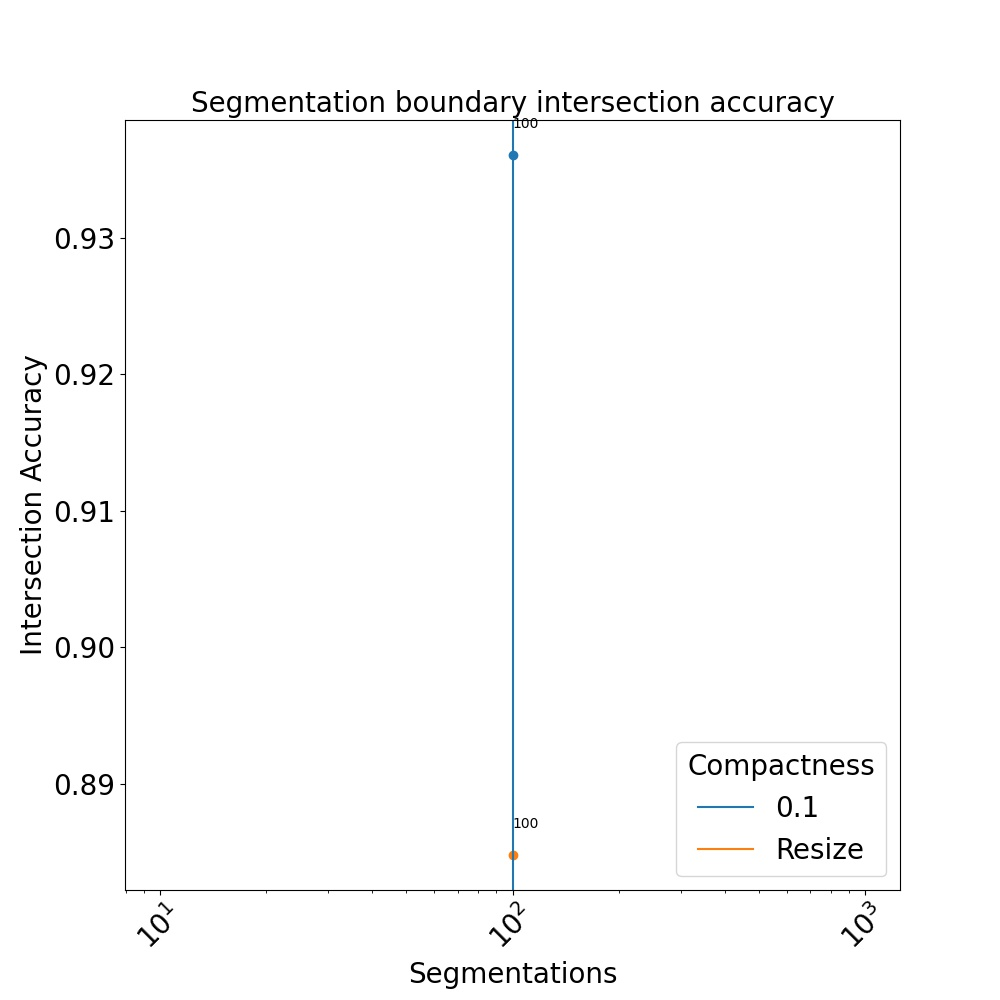
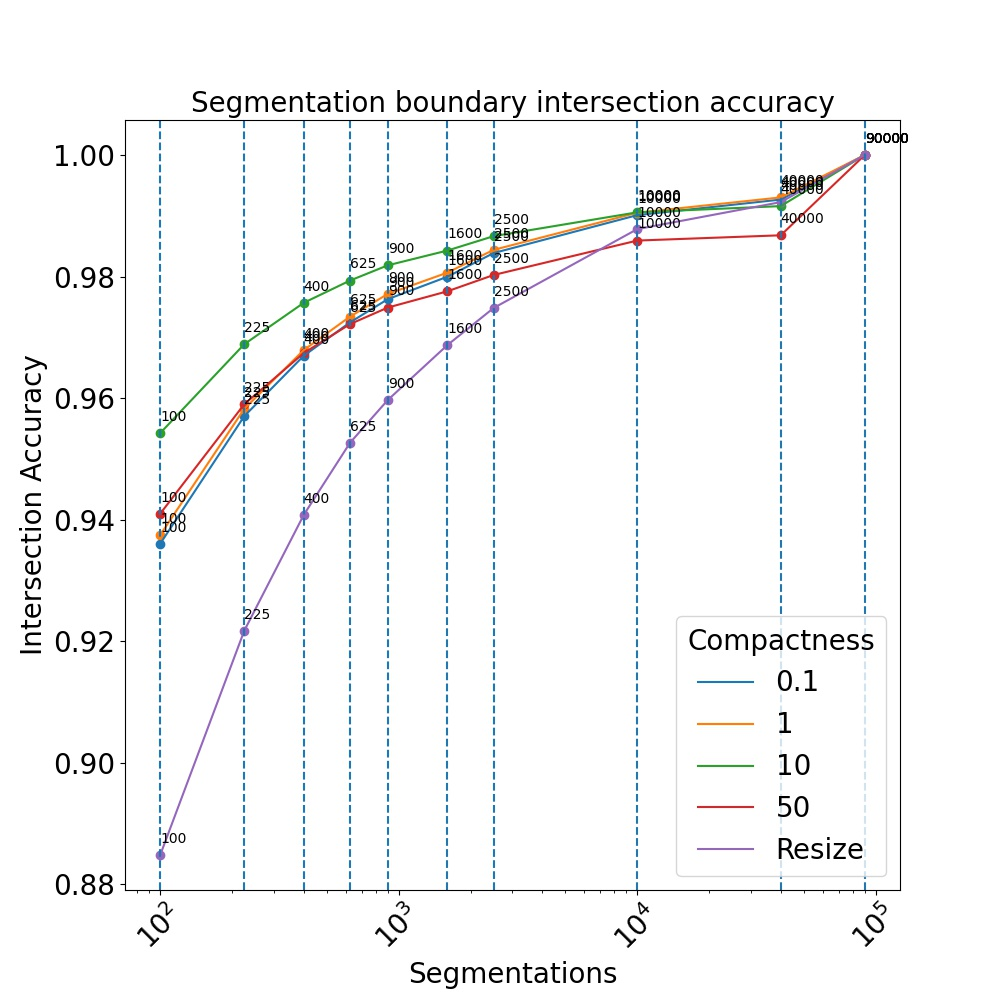
Add tag, dropout

diff --git a/Analysis/superpixel_boundary.py b/Analysis/superpixel_boundary.py
@@ -17,63 +17,124 @@ compactness = [0.1, 1, 10, 50]
 d= {}
 d['segment_numbers'] = segment_numbers
 num_images = 3000
+use_pickle = True
+
+
 plt.figure(figsize=(10,10))
-for compact in tqdm(compactness):
+if use_pickle:
+    d = open("segments_plot_data.pkl",'rb')
+    d = pickle.load(d)
+    for compact in tqdm(compactness):
+        all_ious = d[compact] 
+        plt.plot(np.power(np.array(segment_numbers), 2), all_ious, label=f'{compact}')
+        plt.scatter(np.power(np.array(segment_numbers), 2), all_ious)
+        for i, j in zip(np.power(np.array(segment_numbers), 2), all_ious):
+            plt.text(i, j+0.002, '{}'.format(i))
+
+    all_ious = d['ious'] 
+    plt.plot(np.power(np.array(segment_numbers), 2), all_ious, label='Resize')
+    plt.scatter(np.power(np.array(segment_numbers), 2), all_ious)
+    for i, j in zip(np.power(np.array(segment_numbers), 2), all_ious):
+        plt.text(i, j+0.002, '{}'.format(i))
+
+else:
+    for compact in tqdm(compactness):
+        all_ious = []
+        for seg in segment_numbers:
+            IoUs = []
+            for file in tqdm(os.listdir(dataset_images)[:num_images]):
+                name = file.split('.jpg')[0]
+                image = os.path.join(dataset_images, name+'.jpg')
+                mask = os.path.join(masks, name+'.png')
+
+                img = Image.open(image)
+                msk = Image.open(mask)
+                img = img.convert('RGB').resize((300, 300))
+                msk = msk.convert('L').resize((300, 300))
+                img = np.array(img)
+                msk = np.array(msk)
+                
+                # msk[msk>125] = 255
+                # msk[msk<=125] = 0
+
+                # empty_background = np.zeros_like(msk)
+
+                # msk_boundaries = np.sum(mark_boundaries(empty_background, msk), axis=2)
+
+                msk[msk<=125] = 0
+                msk[msk>125] = 1
+                
+                num_seg = seg*seg
+                segments = slic(img, n_segments=num_seg,
+                compactness=compact,
+                max_num_iter=10,
+                convert2lab=True,
+                enforce_connectivity=False,
+                slic_zero=False)
+
+                # segments = slic(image=img, n_segments=seg, compactness=compact, min_size_factor=0.5, max_num_iter=3, enforce_connectivity=False)
+                # segments = slic.iterate(img)
+
+                # superpixel_boundaries = np.sum(mark_boundaries(empty_background, segments), axis=2)
+
+                # iou = np.sum(np.logical_and((msk_boundaries == 2),(superpixel_boundaries == 2)))/np.sum(msk_boundaries>0)
+                regions = regionprops_table(segments, properties=('label', 'coords', ))
+                try:
+                    max(regions['label'])
+                except:
+                    plt.imshow(img)
+                    plt.show()
+                seq_mask = np.zeros([max(regions['label'])])
+                # assert len(regions['label']) == max(regions['label']), 'Wrong number of labels'
+
+                for ind, coord in zip(regions['label'], regions['coords']):
+                    seq_mask[ind-1] = np.sum(msk[coord[:, 0], coord[:, 1]])/len(coord[:, 0])
+
+                plt_image = seq_mask[segments-1].reshape([img.shape[0], img.shape[1]])
+                plt_image = np.ravel(plt_image)
+                    
+
+                msk = np.ravel(msk)
+                y_temp = (plt_image >= 0.5).astype(np.float)
+                tp = np.sum((y_temp * msk))
+                # avoid prec becomes 0
+                prec, recall = (tp + 1e-10) / (np.sum(y_temp) + 1e-10), (tp + 1e-10) / (np.sum(msk) + 1e-10)
+                beta_square = 0.3
+                f_score = (1 + beta_square) * prec * recall / (beta_square * prec + recall)
+                IoUs.append(f_score)
+
+            all_ious.append(np.mean(IoUs))
+        d[compact] = all_ious
+        plt.plot(np.power(np.array(segment_numbers), 2), all_ious, label=f'{compact}')
+        plt.scatter(np.power(np.array(segment_numbers), 2), all_ious)
+        for i, j in zip(np.power(np.array(segment_numbers), 2), all_ious):
+            plt.text(i, j+0.002, '{}'.format(i))
+
     all_ious = []
-    for seg in segment_numbers:
+    for resolution in segment_numbers:
         IoUs = []
         for file in tqdm(os.listdir(dataset_images)[:num_images]):
             name = file.split('.jpg')[0]
             image = os.path.join(dataset_images, name+'.jpg')
             mask = os.path.join(masks, name+'.png')
 
-            img = Image.open(image)
             msk = Image.open(mask)
-            img = img.convert('RGB').resize((300, 300))
+            msk_resize = Image.open(mask)
             msk = msk.convert('L').resize((300, 300))
-            img = np.array(img)
+            msk_resize = msk_resize.convert('L').resize((resolution, resolution))
+
             msk = np.array(msk)
+            msk_resize = np.array(msk_resize)
             
-            # msk[msk>125] = 255
-            # msk[msk<=125] = 0
-
-            # empty_background = np.zeros_like(msk)
-
-            # msk_boundaries = np.sum(mark_boundaries(empty_background, msk), axis=2)
 
             msk[msk<=125] = 0
             msk[msk>125] = 1
-            
-            num_seg = seg*seg
-            segments = slic(img, n_segments=num_seg,
-            compactness=compact,
-            max_num_iter=10,
-            convert2lab=True,
-            enforce_connectivity=False,
-            slic_zero=False)
 
-            # segments = slic(image=img, n_segments=seg, compactness=compact, min_size_factor=0.5, max_num_iter=3, enforce_connectivity=False)
-            # segments = slic.iterate(img)
-
-            # superpixel_boundaries = np.sum(mark_boundaries(empty_background, segments), axis=2)
-
-            # iou = np.sum(np.logical_and((msk_boundaries == 2),(superpixel_boundaries == 2)))/np.sum(msk_boundaries>0)
-            regions = regionprops_table(segments, properties=('label', 'coords', ))
-            try:
-                max(regions['label'])
-            except:
-                plt.imshow(img)
-                plt.show()
-            seq_mask = np.zeros([max(regions['label'])])
-            # assert len(regions['label']) == max(regions['label']), 'Wrong number of labels'
-
-            for ind, coord in zip(regions['label'], regions['coords']):
-                seq_mask[ind-1] = np.sum(msk[coord[:, 0], coord[:, 1]])/len(coord[:, 0])
-
-            plt_image = seq_mask[segments-1].reshape([img.shape[0], img.shape[1]])
+            msk_resize[msk_resize<=125] = 0
+            msk_resize[msk_resize>125] = 1
+                    
+            plt_image = cv2.resize(msk_resize, (300, 300))
             plt_image = np.ravel(plt_image)
-                
-
             msk = np.ravel(msk)
             y_temp = (plt_image >= 0.5).astype(np.float)
             tp = np.sum((y_temp * msk))
@@ -84,53 +145,12 @@ for compact in tqdm(compactness):
             IoUs.append(f_score)
 
         all_ious.append(np.mean(IoUs))
-    d[compact] = all_ious
-    plt.plot(np.power(np.array(segment_numbers), 2), all_ious, label=f'{compact}')
+
+    d['ious'] = all_ious
+    plt.plot(np.power(np.array(segment_numbers), 2), all_ious, label='Resize')
     plt.scatter(np.power(np.array(segment_numbers), 2), all_ious)
     for i, j in zip(np.power(np.array(segment_numbers), 2), all_ious):
         plt.text(i, j+0.002, '{}'.format(i))
-
-all_ious = []
-for resolution in segment_numbers:
-    IoUs = []
-    for file in tqdm(os.listdir(dataset_images)[:num_images]):
-        name = file.split('.jpg')[0]
-        image = os.path.join(dataset_images, name+'.jpg')
-        mask = os.path.join(masks, name+'.png')
-
-        msk = Image.open(mask)
-        msk_resize = Image.open(mask)
-        msk = msk.convert('L').resize((300, 300))
-        msk_resize = msk_resize.convert('L').resize((resolution, resolution))
-
-        msk = np.array(msk)
-        msk_resize = np.array(msk_resize)
-        
-
-        msk[msk<=125] = 0
-        msk[msk>125] = 1
-
-        msk_resize[msk_resize<=125] = 0
-        msk_resize[msk_resize>125] = 1
-                   
-        plt_image = cv2.resize(msk_resize, (300, 300))
-        plt_image = np.ravel(plt_image)
-        msk = np.ravel(msk)
-        y_temp = (plt_image >= 0.5).astype(np.float)
-        tp = np.sum((y_temp * msk))
-        # avoid prec becomes 0
-        prec, recall = (tp + 1e-10) / (np.sum(y_temp) + 1e-10), (tp + 1e-10) / (np.sum(msk) + 1e-10)
-        beta_square = 0.3
-        f_score = (1 + beta_square) * prec * recall / (beta_square * prec + recall)
-        IoUs.append(f_score)
-
-    all_ious.append(np.mean(IoUs))
-
-d['ious'] = all_ious
-plt.plot(np.power(np.array(segment_numbers), 2), all_ious, label='Resize')
-plt.scatter(np.power(np.array(segment_numbers), 2), all_ious)
-for i, j in zip(np.power(np.array(segment_numbers), 2), all_ious):
-    plt.text(i, j+0.002, '{}'.format(i))
 
 with open('segments_plot_data.pkl', 'wb') as f:
     pickle.dump(d, f)
@@ -142,7 +162,8 @@ plt.xscale('log')
 plt.xticks(fontsize=fs, rotation=45)
 plt.yticks(fontsize=fs)
 plt.legend(loc="lower right", fontsize=fs, title='Compactness', title_fontsize=fs)
-plt.axvline(x=np.power(np.array(segment_numbers), 2), linestyle='--')
+for vertical in np.power(np.array(segment_numbers), 2):
+    plt.axvline(x=vertical, linestyle='--')
 plt.savefig(f'compactness.jpg')
     
 

diff --git a/Wrappers/SP_TFM.py b/Wrappers/SP_TFM.py
@@ -16,9 +16,10 @@ class SP_TFM_Wrapper(pl.LightningModule):
         self.lr = kwargs.get("lr")
         self.num_seg = kwargs.get('num_seg')
         self.es_patience = kwargs.get('es_patience')
+        self.dropout = kwargs.get('dropout')
 
         # Generator that produces the HeatMap
-        self.supert = SP_TFM(11, 32, 8, 6, 0.)
+        self.supert = SP_TFM(11, 32, 8, 6, self.dropout)
         self.iteration = 0
         self.test_iteration = 0
         self.save_hyperparameters()
@@ -139,7 +140,7 @@ class SP_TFM_Wrapper(pl.LightningModule):
         Compute the metrics for validation batch
         validation loop: https://pytorch-lightning.readthedocs.io/en/stable/common/lightning_module.html#hooks
         """
-        tensorboard = self.logger.experiment
+        # tensorboard = self.logger.experiment
         features = batch['features']
         seq_mask = batch['seq_mask']
         segments = batch['segments']
@@ -168,15 +169,15 @@ class SP_TFM_Wrapper(pl.LightningModule):
             samples.append(plt_image)
 
         samples = torch.tensor(np.expand_dims(np.array(samples), 1))
-        tensorboard.add_images('Test Pred', samples, self.test_iteration)
+        # tensorboard.add_images('Test Pred', samples, self.test_iteration)
         samples_mask = []
         for masked, labels in zip(seq_mask_numpy, segments.cpu().numpy()):
             plt_image = masked[labels-1].reshape([img_size, img_size])
             samples_mask.append(plt_image)
 
         samples_mask = torch.tensor(np.expand_dims(np.array(samples_mask), 1))
-        tensorboard.add_images('Test GT', samples_mask, self.test_iteration)
-        tensorboard.add_images('Test Image', img, self.test_iteration)
+        # tensorboard.add_images('Test GT', samples_mask, self.test_iteration)
+        # tensorboard.add_images('Test Image', img, self.test_iteration)
 
         mae = torch.sum(torch.mean(torch.abs(samples - samples_mask), dim=(1, 2, 3)))
         self.maes += mae

diff --git a/train.py b/train.py
@@ -113,6 +113,8 @@ if __name__ == "__main__":
     parser.add_argument('--size', help='Image size for DUTS', type=int, default=224)
     parser.add_argument('--coeff', help='Number of coefficients for fft', type=int, default=7)
     parser.add_argument('--downsample', help='Downsample resolution', type=int, default=28)
+    parser.add_argument('--tag', help='Tag for differentiating runs on CC', type=str)
+
 
 
     args = parser.parse_args()
@@ -129,12 +131,8 @@ if __name__ == "__main__":
     random_sec = random.randint(1, 20)
     time.sleep(random_sec)
     now = datetime.datetime.now().strftime('%m%d-%H%M%S')
-    weight_save_dir = os.path.join(dict_args["logdir"], os.path.join('models', 'state_dict', now))
-    while os.path.exists(weight_save_dir):
-        random_sec = random.randint(1, 20)
-        time.sleep(random_sec)
-        now = datetime.datetime.now().strftime('%m%d%H%M%S')
-        weight_save_dir = os.path.join(dict_args["logdir"], os.path.join('models', 'state_dict', now))
+    weight_save_dir = os.path.join(dict_args["logdir"], os.path.join('models', 'state_dict', now+'_'+dict_args["tag"]))
+ 
 
     os.makedirs(weight_save_dir, exist_ok=True)
 
@@ -159,7 +157,7 @@ if __name__ == "__main__":
     # Trainer: initialize training behaviour
     profiler = SimpleProfiler()
     lr_monitor = LearningRateMonitor(logging_interval='step')
-    logger = TensorBoardLogger(save_dir=dict_args['logdir'], version=now, name='lightning_logs', log_graph=True)
+    logger = TensorBoardLogger(save_dir=dict_args['logdir'], version=now+'_'+dict_args["tag"], name='lightning_logs', log_graph=True)
     trainer = pl.Trainer(
         callbacks=[early_stopping_callback, checkpoint_callback, lr_monitor],
         val_check_interval=dict_args['val_freq'],
